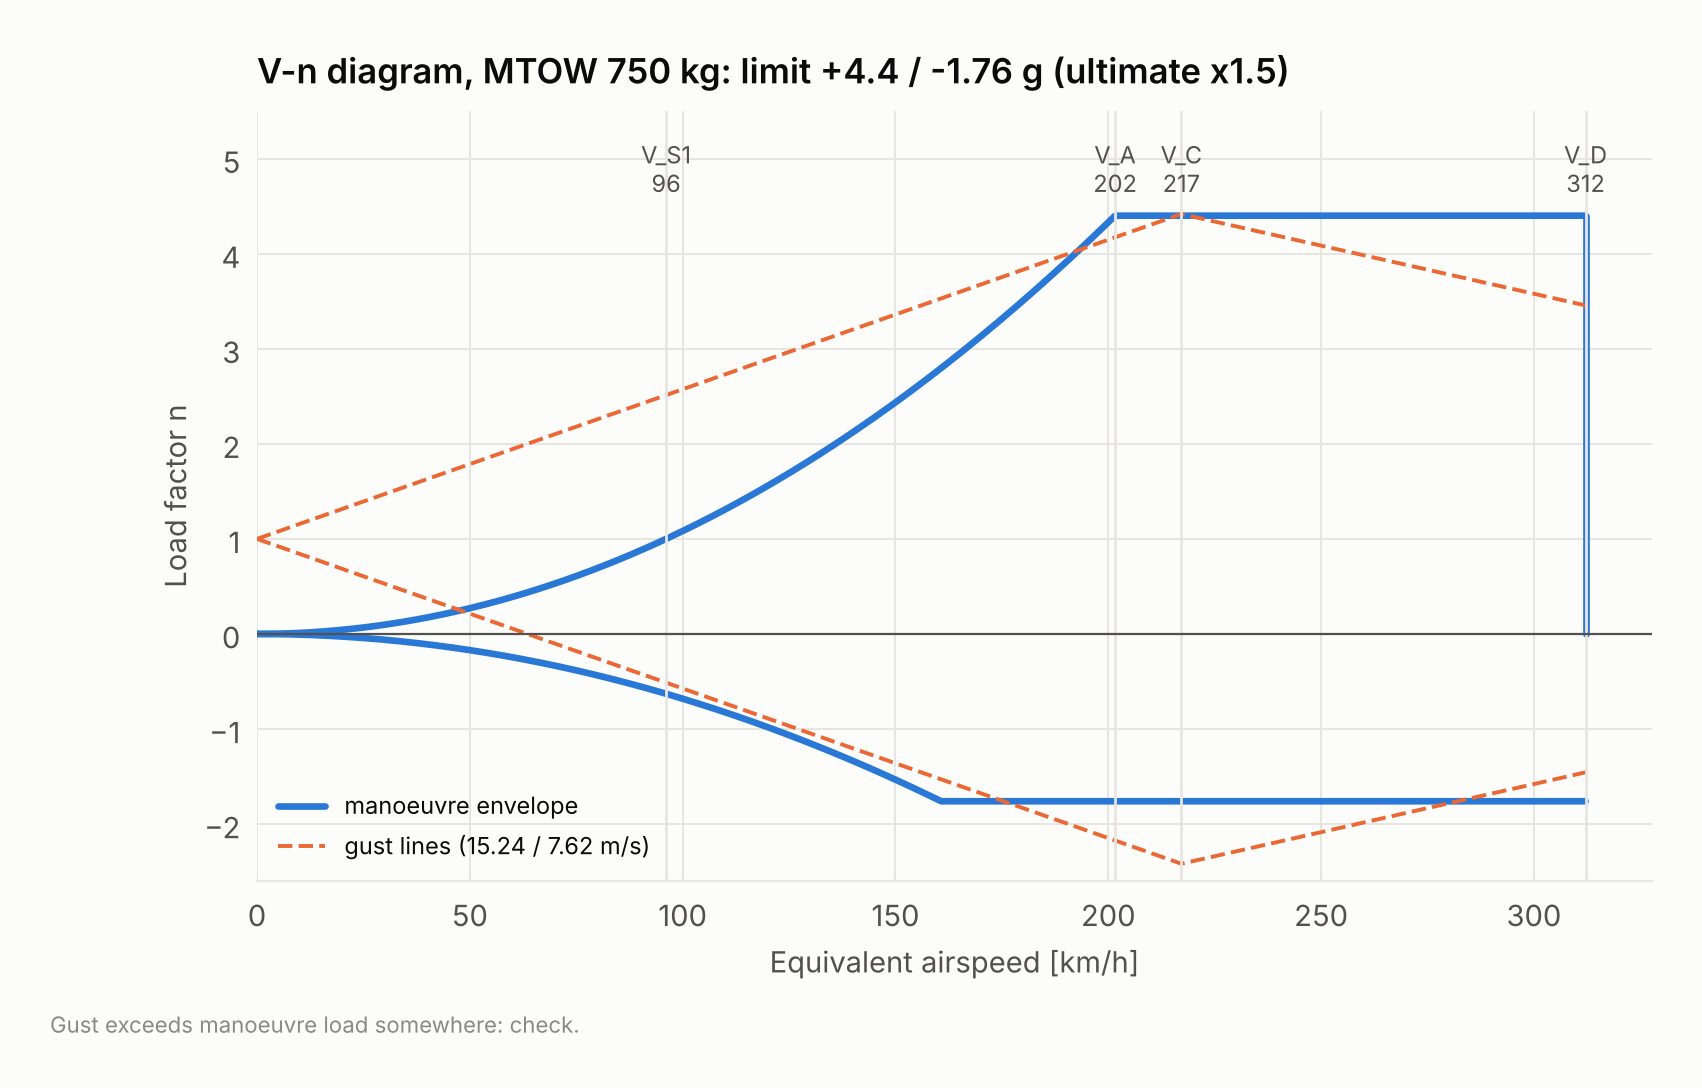
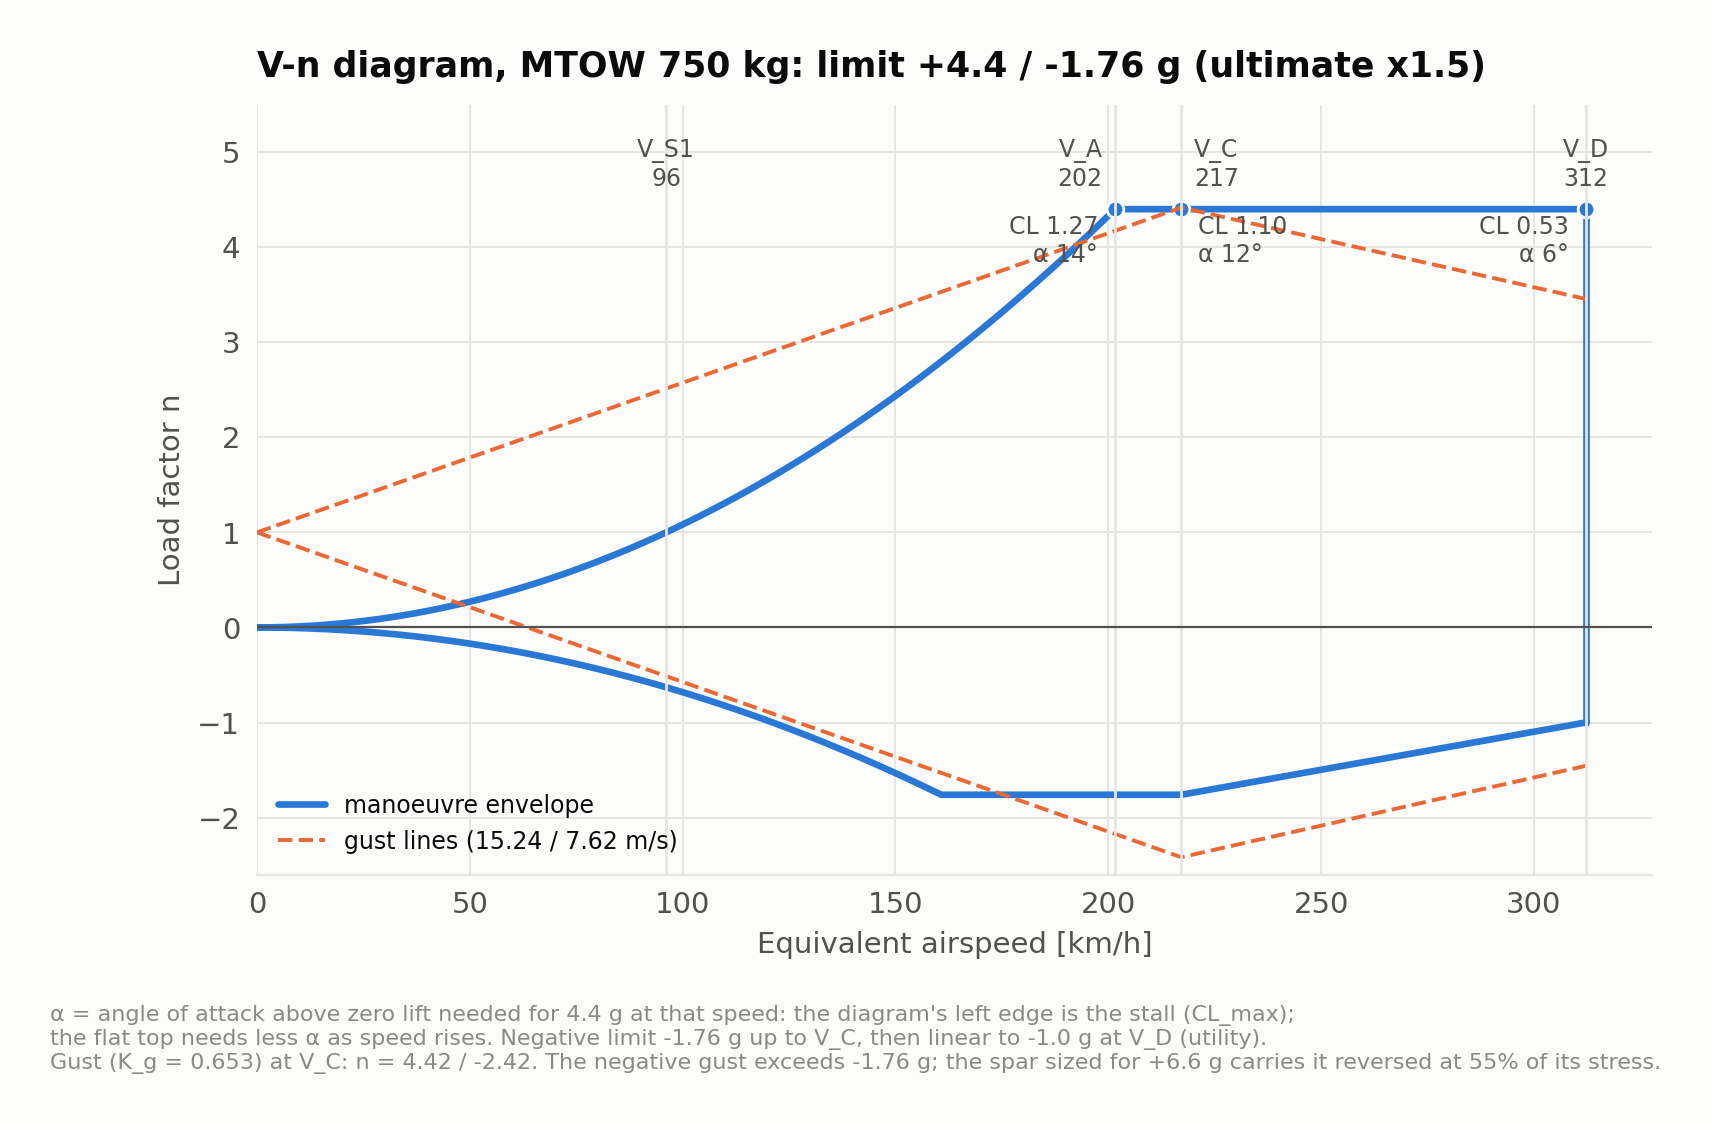
study 12: V-n negative limit tapers to -1.0 g at V_D (CS-23.333b); angle of attack shown along the envelope

diff --git a/studies/12_vn_diagram.py b/studies/12_vn_diagram.py
@@ -18,24 +18,42 @@ def main():
     V = np.linspace(0, v.VD, 300)
     q = 0.5 * isa.RHO0 * V**2
     n_up = np.minimum(q * M.polar.cl_max_clean / (M.W / ac.wing.area), v.n_pos)
-    n_dn = np.maximum(-q * 0.8 / (M.W / ac.wing.area), v.n_neg)
+    ws = M.W / ac.wing.area
+    # negative side: stall line, then n- up to V_C, then linear to n-(V_D) (CS-23.333(b))
+    n_dn = np.where(V <= v.VC, np.maximum(-q * 0.8 / ws, v.n_neg),
+                    v.n_neg + (v.n_neg_vd - v.n_neg) * (V - v.VC) / (v.VD - v.VC))
     ax.plot(V * 3.6, n_up, color=style.EIDOLON, lw=2.4, label="manoeuvre envelope")
     ax.plot(V * 3.6, n_dn, color=style.EIDOLON, lw=2.4)
-    ax.plot([v.VD * 3.6, v.VD * 3.6], [0, v.n_pos], color=style.EIDOLON, lw=2.4)
+    ax.plot([v.VD * 3.6, v.VD * 3.6], [v.n_neg_vd, v.n_pos], color=style.EIDOLON, lw=2.4)
+    # the angle of attack is hidden in the diagram: on the stall line the wing is at CL_max; along the
+    # flat 4.4 g line the same lift needs less CL (less alpha) as speed rises, CL = n W / (q S)
+    a_w = M.lift.cl_alpha_wing
+    alpha_pts = {}
+    for name, Vp in (("V_A", v.VA), ("V_C", v.VC), ("V_D", v.VD)):
+        cl = v.n_pos * ws / (0.5 * isa.RHO0 * Vp**2)
+        alpha_pts[name] = {"CL": cl, "alpha_above_zero_lift_deg": float(np.degrees(cl / a_w))}
+        ax.plot(Vp * 3.6, v.n_pos, "o", ms=6, color=style.EIDOLON, mec="white")
+        right = name == "V_C"
+        ax.text(Vp * 3.6 + (4 if right else -4), v.n_pos - 0.55, f"CL {cl:.2f}\nα {np.degrees(cl / a_w):.0f}°",
+                ha="left" if right else "right", fontsize=8.5, color=style.INK2)
     for sgn in (1, -1):
         ax.plot([0, v.VC * 3.6, v.VD * 3.6], [1, 1 + sgn * v.gust_c, 1 + sgn * v.gust_d], color=style.HANSA, ls="--", lw=1.4,
                 label="gust lines (15.24 / 7.62 m/s)" if sgn == 1 else None)
-    for name, val in (("V_S1", v.VS1), ("V_A", v.VA), ("V_C", v.VC), ("V_D", v.VD)):
+    for name, val, ha, dx in (("V_S1", v.VS1, "center", 0), ("V_A", v.VA, "right", -3), ("V_C", v.VC, "left", 3), ("V_D", v.VD, "center", 0)):
         ax.axvline(val * 3.6, color=style.GRID, lw=1)
-        ax.text(val * 3.6, v.n_pos + 0.25, f"{name}\n{val*3.6:.0f}", ha="center", fontsize=8.5, color=style.INK2)
+        ax.text(val * 3.6 + dx, v.n_pos + 0.25, f"{name}\n{val*3.6:.0f}", ha=ha, fontsize=8.5, color=style.INK2)
     ax.axhline(0, color=style.INK2, lw=0.8)
     ax.set_ylim(-2.6, 5.5); ax.set_xlim(0, v.VD * 3.6 * 1.05)
     ax.set_xlabel("Equivalent airspeed [km/h]"); ax.set_ylabel("Load factor n")
     ax.set_title(f"V-n diagram, MTOW {ac.mtow:.0f} kg: limit +{v.n_pos} / {v.n_neg:.2f} g (ultimate x1.5)")
     ax.legend(fontsize=8.5, loc="lower left")
-    style.note(fig, f"CS-23.333-341. Gust alleviation K_g = {v.kg:.3f}. Manoeuvre governs above the gust lines at all speeds" if max(1 + v.gust_c, 1 + v.gust_d) < v.n_pos else "Gust exceeds manoeuvre load somewhere: check.")
+    style.note(fig, "α = angle of attack above zero lift needed for 4.4 g at that speed: the diagram's left edge is the stall (CL_max); "
+               "\nthe flat top needs less α as speed rises. Negative limit -1.76 g up to V_C, then linear to -1.0 g at V_D (utility). "
+               f"\nGust (K_g = {v.kg:.3f}) at V_C: n = {1 + v.gust_c:.2f} / {1 - v.gust_c:.2f}. "
+               f"The negative gust exceeds -1.76 g; the spar sized for +6.6 g carries it reversed at {1.5 * (v.gust_c - 1) / 6.6:.0%} of its stress.")
     style.save(fig, OUT / "vn_diagram.png")
-    write_json(OUT / "vn.json", {k: (val * 3.6 if k.startswith("V") else val) for k, val in vars(v).items()})
+    write_json(OUT / "vn.json", {**{k: (val * 3.6 if k.startswith("V") else val) for k, val in vars(v).items()},
+                                 "points_on_4g4_line": alpha_pts})
 
 
 if __name__ == "__main__":

diff --git a/eidolon/loads.py b/eidolon/loads.py
@@ -2,6 +2,8 @@
 
 CS-23.335 design speeds:  V_C >= 33 sqrt(W/S) [kt, W/S in lb/ft^2],  V_D >= 1.50 V_C,min (utility)
 CS-23.337 limit load factors (utility): n+ = 4.4, n- = -0.4 n+ = -1.76
+CS-23.333(b) manoeuvring envelope: n+ holds up to V_D; n- holds up to V_C, then varies linearly to
+          0 at V_D (normal category) or -1.0 at V_D (utility and aerobatic)
 CS-23.341 gust load factor:  n = 1 +/- K_g U_de V a / (2 W/S)   (EAS, rho0)
           K_g = 0.88 mu / (5.3 + mu),  mu = 2 (W/S) / (rho c a g)
           U_de = 15.24 m/s at V_C, 7.62 m/s at V_D
@@ -29,6 +31,7 @@ class VnResult:
     gust_c: float
     gust_d: float
     kg: float
+    n_neg_vd: float = 0.0
 
 
 def vn(W: float, S: float, mac: float, cl_alpha: float, cl_max: float, cl_min: float = -0.8,
@@ -43,4 +46,5 @@ def vn(W: float, S: float, mac: float, cl_alpha: float, cl_max: float, cl_min: f
     mu = 2 * ws / (isa.RHO0 * mac * cl_alpha * 9.80665)
     kg = 0.88 * mu / (5.3 + mu)
     g = lambda U, V: kg * isa.RHO0 * U * V * cl_alpha / (2 * ws)
-    return VnResult(VS1, VA, VC, VD, n_pos, -0.4 * n_pos, g(15.24, VC), g(7.62, VD), kg)
+    n_neg_vd = -1.0 if n_pos > 3.8 else 0.0      # utility/aerobatic vs normal, CS-23.333(b)
+    return VnResult(VS1, VA, VC, VD, n_pos, -0.4 * n_pos, g(15.24, VC), g(7.62, VD), kg, n_neg_vd)
